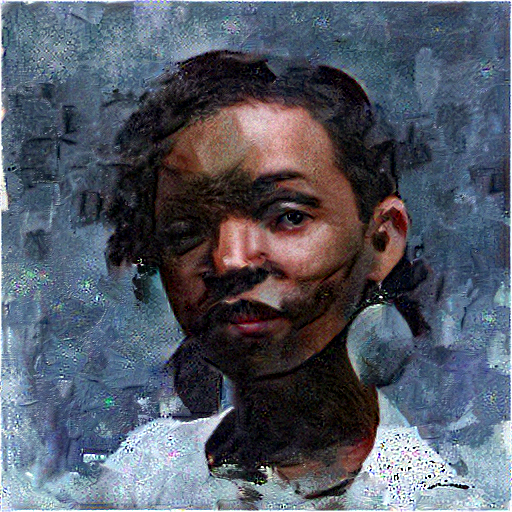
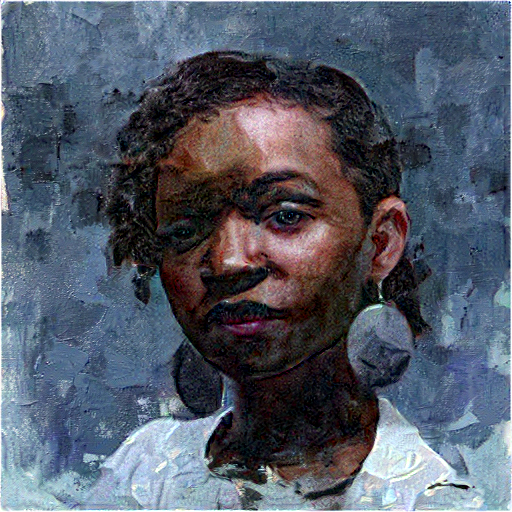
result

diff --git a/transfer.py b/transfer.py
@@ -26,7 +26,7 @@ add_arg('--content',        default=None, type=str,         help='Content image 
 add_arg('--content-weight', default=10, type=float,       help='Weight of content relative to style.')
 add_arg('--content-layers', default='block4_conv2', type=str,        help='The layer with which to match content.')
 add_arg('--style',          default=None, type=str,         help='Style image path to extract patches.')
-add_arg('--style-weight',   default=15, type=float,       help='Weight of style relative to content.')
+add_arg('--style-weight',   default=30, type=float,       help='Weight of style relative to content.')
 add_arg('--style-layers',   default='block2_conv2,block3_conv2,block4_conv2', type=str,    help='The layers to match style patches.')
 add_arg('--semantic-ext',   default='_sem.png', type=str,   help='File extension for the semantic maps.')
 add_arg('--semantic-weight', default=10, type=float,      help='Global weight of semantics vs. features.')
@@ -144,9 +144,10 @@ class CSFlow:
         self.b = b
         self.sigma = sigma #sigma 是变量h
 
-    def __calculate_CS(self, scaled_distances, axis_for_normalization = 3):
+    def __calculate_CS(self, scaled_distances,temp = None, axis_for_normalization = 3):
         cs_weights_before_normalization = tf.exp((self.b - scaled_distances) / self.sigma, name='weights_before_normalization') #权重
-        return CSFlow.sum_normalize(cs_weights_before_normalization, axis_for_normalization)#CXij 集合
+
+        return CSFlow.sum_normalize(cs_weights_before_normalization, temp,axis_for_normalization)#CXij 集合
 
     # def reversed_direction_CS(self):
     #     cs_flow_opposite = CSFlow(self.sigma, self.b)
@@ -159,17 +160,42 @@ class CSFlow:
 
     #-- 计算输入图和目标图特征的相关性，计算了CXij的集合
     @staticmethod
-    def create_using_dotP(I_features, T_features,T_map_features,I_map_features, sigma = float(1.0), b = float(1.0)):
+    def create_using_dotP(I_features, T_features,isStyle ,sigma = float(1.0), b = float(1.0)):
         cs_flow = CSFlow(sigma, b)
         with tf.name_scope('CS'):
             # prepare feature before calculating cosine distance
             T_features, I_features = cs_flow.center_by_T(T_features, I_features)
+
             with tf.name_scope('TFeatures'):
-                T_features = CSFlow.l2_normalize_channelwise(T_features)
+                T_features = CSFlow.l2_normalize_channelwise(T_features,isStyle)
                 
             with tf.name_scope('IFeatures'):
-                I_features = CSFlow.l2_normalize_channelwise(I_features)
+                I_features = CSFlow.l2_normalize_channelwise(I_features,isStyle)
                 
+                if args.semantic_weight > 0 and isStyle:
+                    N, H, W, C = T_features.shape.as_list()
+                    T_map_features = T_features
+                    T_features = tf.slice(T_features,[0,0,0,0],[N, H, W,C-3])
+                    I_map_features = I_features
+                    I_features = tf.slice(I_features,[0,0,0,0],[N, H, W,C-3])
+
+                    sem_cosine_dist_l = []
+                    N, _, __, ___ = T_map_features.shape.as_list()
+                    for i in range(N):
+                        sem_T_features_i = tf.expand_dims(T_map_features[i, :, :, :], 0)
+                        sem_I_features_i = tf.expand_dims(I_map_features[i, :, :, :], 0)
+
+                        #--------------------------------------------------------------------------------
+                        sem_patches_HWCN_i = cs_flow.patch_decomposition(sem_T_features_i)
+
+                        sem_cosine_dist_i = tf.nn.conv2d(sem_I_features_i, sem_patches_HWCN_i, strides=[1, 1, 1, 1],
+                                                            padding='VALID', name='sem_cosine_dist')
+                        sem_cosine_dist_l.append(sem_cosine_dist_i)
+                    sem_cosine_dist = tf.concat(sem_cosine_dist_l, axis = 0)
+
+
+
+
                 cosine_dist_l = []
                 N, _, __, ___ = T_features.shape.as_list()
                 for i in range(N):
@@ -184,58 +210,32 @@ class CSFlow:
                     cosine_dist_l.append(cosine_dist_i)
                 cs_flow.cosine_dist = tf.concat(cosine_dist_l, axis = 0)
                 # tf.print("cosine_dist shape:",tf.shape(cosine_dist))
+
+                temp = None
+                if args.semantic_weight > 0 and isStyle:
+                    #temp 是语义图的余弦相似度矩阵
+                    temp = sem_cosine_dist - cs_flow.cosine_dist
+                    #temp 二值化 ------------
+                    temp = temp.numpy()
+                    temp = ( temp > 0.95 ).astype(np.int_)
+                    temp = tf.cast(temp,dtype = tf.float32)
+
+                    # tf.print("temp one zero:",tf.reduce_sum(temp,3))
+                    #-----------------------
+                    #将语义图标签不同的元素的余弦相似度设置为-1，变为最不相关
+                    cs_flow.cosine_dist = tf.math.multiply((cs_flow.cosine_dist + 1 ),temp) - 1
+
+
                 cosine_dist_zero_to_one = -(cs_flow.cosine_dist - 1 ) / 2 
 
                 cs_flow.raw_distances = cosine_dist_zero_to_one
 
                 relative_dist = cs_flow.calc_relative_distances(cs_flow.raw_distances)
-                cs_flow.cs_NHWC = cs_flow.__calculate_CS(relative_dist)
-
-                if T_map_features is not None and I_map_features is not None:
-                    T_map_features = CSFlow.l2_normalize_channelwise(T_map_features,3)
-                    I_map_features = CSFlow.l2_normalize_channelwise(I_map_features,3)
-
-
-
-                    # tf.print(" befor T_map_features",T_map_features)
-                    T_map_features = tf.math.multiply(T_map_features,args.semantic_weight)
-                    I_map_features = tf.math.multiply(I_map_features,args.semantic_weight)
-                    # tf.print(" after T_map_features",T_map_features)
-                    T_map_features = tf.cast(T_map_features, dtype=tf.float32)
-                    I_map_features = tf.cast(I_map_features, dtype=tf.float32)
-                    T_features = tf.concat([T_features,T_map_features],3)
-                    I_features = tf.concat([I_features,I_map_features],3)
-
-                    sem_cosine_dist_l = []
-                    N, _, __, ___ = T_features.shape.as_list()
-                    for i in range(N):
-                        sem_T_features_i = tf.expand_dims(T_features[i, :, :, :], 0)
-                        sem_I_features_i = tf.expand_dims(I_features[i, :, :, :], 0)
-
-                        #--------------------------------------------------------------------------------
-                        sem_patches_HWCN_i = cs_flow.patch_decomposition(sem_T_features_i)
-
-                        sem_cosine_dist_i = tf.nn.conv2d(sem_I_features_i, sem_patches_HWCN_i, strides=[1, 1, 1, 1],
-                                                            padding='VALID', name='cosine_dist')
-                        sem_cosine_dist_l.append(sem_cosine_dist_i)
-                    sem_cosine_dist = tf.concat(sem_cosine_dist_l, axis = 0)
-                    # tf.print("sem_cosine_dist shape:",tf.shape(sem_cosine_dist))
-                    # cosine_dist = tf.expand_dims(cosine_dist, 4)
-                    # sem_cosine_dist = tf.expand_dims(sem_cosine_dist, 4)
-
-                    # cs_flow.cosine_dist = tf.concat([sem_cosine_dist,cosine_dist],axis = 4)
-                    cs_flow.sem_cosine_dist = sem_cosine_dist
-
-                    sem_cosine_dist_zero_to_one = -(cs_flow.sem_cosine_dist - 1 - args.semantic_weight ** 2) / ( 2 * (args.semantic_weight + 1) )
-                    cs_flow.sem_raw_distances = sem_cosine_dist_zero_to_one
-                    sem_relative_dist = cs_flow.calc_relative_distances(cs_flow.sem_raw_distances)
-                    cs_flow.sem_cs_NHWC = cs_flow.__calculate_CS(sem_relative_dist)
-                    # tf.print("cosine_dist shape:",tf.shape(cs_flow.cosine_dist))
-
-
-                    # cs_flow.cosine_dist = tf.concat(cosine_dist_l, axis = 0)
-                    
+                cs_flow.cs_NHWC = cs_flow.__calculate_CS(relative_dist,temp)
                 return cs_flow
+
+
+
 
     def calc_relative_distances(self,raw_distances, axis=3):
         epsilon = 1e-5
@@ -254,8 +254,15 @@ class CSFlow:
 
 
     @staticmethod
-    def sum_normalize(cs, axis=3): 
+    def sum_normalize(cs, temp = None,axis=3): 
+        if temp is not None :
+            n,h,w,c = temp.shape.as_list()
+            weight_map = tf.compat.v1.get_variable("weight_map",shape=([n,h,w,c ]),dtype=tf.float32,initializer=tf.random_normal_initializer(mean=0.0001,stddev=0)) 
+            temp += weight_map
+            # tf.print("weight_map:",weight_map)
+            cs = tf.math.multiply(cs,temp)
         reduce_sum = tf.math.reduce_sum(cs, axis, keepdims=True, name='sum')
+        # tf.print("reduce_sum:",reduce_sum)
         return tf.divide(cs, reduce_sum, name='sumNormalized') #计算CXij
 
     def center_by_T(self, T_features, I_features):
@@ -282,11 +289,27 @@ class CSFlow:
         return self.T_features_centered, self.I_features_centered
     @staticmethod
 
-    def l2_normalize_channelwise(features,num = 1.0):
-        norms = tf.norm(features, ord='euclidean', axis=3, name='norm')
+    def l2_normalize_channelwise(features,mapBool = False):
+
+        N,H,W,C = features.shape.as_list()
+        if mapBool:
+            
+            mapT  = tf.slice(features,[0,0,0,C-3],[N,H,W,3])
+            features = tf.slice(features,[0,0,0,0],[N,H,W,C-3])
+            # tf.print("features:",tf.shape(features))
+            map_norms = tf.norm(mapT, ord='euclidean', axis=3, name='map_norm')
+            map_norms_expanded = tf.expand_dims(map_norms, 3)
+            map_fea = tf.math.divide_no_nan(mapT, map_norms_expanded, name='map_normalized')
+
+            norms = tf.norm(features, ord='euclidean', axis=3, name='norm')
         # expanding the norms tensor to support broadcast division
-        norms_expanded = tf.expand_dims(norms, 3)
-        features = tf.math.divide_no_nan(features, norms_expanded * num, name='normalized')
+            norms_expanded = tf.expand_dims(norms, 3)
+            features = tf.math.divide_no_nan(features, norms_expanded, name='normalized')
+            features = tf.concat([features,map_fea],3)
+        else:
+            norms = tf.norm(features, ord='euclidean', axis=3, name='norm')
+            norms_expanded = tf.expand_dims(norms, 3)
+            features = tf.math.divide_no_nan(features, norms_expanded, name='normalized')
         return features
 
     def patch_decomposition(self, T_features):
@@ -316,40 +339,16 @@ class CSFlow:
 #--------------------------------------------------
 
 
-def CX_loss(T_features, I_features,T_map_features,I_map_features, nnsigma=float(1.0)):
+def CX_loss(T_features, I_features,isStyle, nnsigma=float(1.0)):
     T_features = tf.convert_to_tensor(T_features, dtype=tf.float32)
     I_features = tf.convert_to_tensor(I_features, dtype=tf.float32)
 
     with tf.name_scope('CX'):
-        cs_flow = CSFlow.create_using_dotP(I_features, T_features,T_map_features,I_map_features, nnsigma, float(1.0))
+        cs_flow = CSFlow.create_using_dotP(I_features, T_features,isStyle, nnsigma, float(1.0))
         # sum_normalize:
         height_width_axis = [1, 2]
-        # To:
-        # x=[[[[[1.0,6.0],[2.0,4.0]],[[3.0,4.0],[7.0,2.0]]],[[[1.0,3.0],[4.0,6.0]],[[8.0,5.0],[1.0,10.0]]]]]
-        # # x = [[1,2],[3,4],[0,5],[2,6]]
-        # tf.print("x shape:",tf.shape(x))
-        # tf.print("cs_flow:",cs_flow.cs_NHWC)
-        if T_map_features is not None and I_map_features is not None: 
-            cs_NHWC = tf.expand_dims(cs_flow.cs_NHWC,axis = 4)
-            sem_cs_NHWC = tf.expand_dims(cs_flow.sem_cs_NHWC,axis = 4)
-            cs = tf.concat([sem_cs_NHWC,cs_NHWC],axis = 4)
 
-            # dataMax = tf.argmax(cs,axis=)
-
-            _,h,w,n,_ = cs.shape.as_list()
-            cxij_matrix = cs.numpy() #将tensor 转换为 numpy对象，否则运行起来会非常慢，因为在下面这行代码的循环中，将不停的把tensor对象放入计算图
-            # tf.print("cs:",cs)
-            # k_max_NC = [ cxij_list[tf.argmax(cxij_list[i,:,:],axis = 0)[0],1] for i in range(h*w)]
-            k_max_NC = []
-            for i in range(h):
-                for j in range(w):
-                    CXij_list = cxij_matrix[0,i,j,:,:]
-                    max = tf.argmax(CXij_list,axis = 0)[0]
-                    k_max_NC.append(CXij_list[max,1])
-
-            k_max_NC = [k_max_NC]
-        else:
-            k_max_NC = tf.math.reduce_max(cs_flow.cs_NHWC, axis=height_width_axis) #找到CXij集合中最大的CXij
+        k_max_NC = tf.math.reduce_max(cs_flow.cs_NHWC, axis=height_width_axis) #找到CXij集合中最大的CXij
 
 
 
@@ -358,7 +357,7 @@ def CX_loss(T_features, I_features,T_map_features,I_map_features, nnsigma=float(
         CX_as_loss = 1 - CS
         CX_loss = -tf.math.log(1 - CX_as_loss)
         CX_loss = tf.math.reduce_mean(CX_loss) #返回损失值，一个float32
-        # print("CXLOSS：{}".format(float(CX_loss)))
+        tf.print("CXLOSS：",float(CX_loss))
         return CX_loss
 
 #--------------------------------------------------
@@ -418,22 +417,25 @@ def crop_quarters(feature_tensor):
     return feature_tensor
 
 
-def CX_loss_helper(T_features,I_features,nnsigma=float(0.5),T_map_features=None,I_map_features=None):
+def CX_loss_helper(T_features,I_features,isStyle = True,nnsigma=float(0.5),T_map_features=None,I_map_features=None):
     # if CX_config.crop_quarters is True:
     #     T_features = crop_quarters(T_features)
     #     I_features = crop_quarters(I_features)
     # if T_map_features is not None and I_map_features is not None :
     #     T_features = tf.concat([T_features,T_map_features],3)
     #     I_features = tf.concat([I_features,I_map_features],3)
-
+    if T_map_features is not None and I_map_features is not None:
+        T_map_features = tf.cast(T_map_features, dtype=tf.float32)
+        I_map_features = tf.cast(I_map_features, dtype=tf.float32)
+        T_features = tf.concat([T_features,T_map_features],3)
+        I_features = tf.concat([I_features,I_map_features],3)
 
     N, fH, fW, fC = T_features.shape.as_list()
     if fH * fW <= 65 ** 2:
         print(' #### Skipping pooling for CX....')
     else:
+        
         T_features, I_features = random_pooling(T_features, I_features, output_1d_size=65)
-        if T_map_features is not None and I_map_features is not None:
-            T_map_features, I_map_features = random_pooling(T_map_features, I_map_features, output_1d_size=65)
 
 
     # if T_map_features is not None and I_map_features is not None:
@@ -453,7 +455,7 @@ def CX_loss_helper(T_features,I_features,nnsigma=float(0.5),T_map_features=None,
     # tf.print("after,tshape:",tf.shape(T_features))
     # tf.print("after,Ishape:",tf.shape(I_features))
 
-    loss = CX_loss(T_features, I_features,T_map_features,I_map_features,nnsigma)
+    loss = CX_loss(T_features, I_features,isStyle,nnsigma)
     # tf.print("LOSS:",loss)
     return loss
 
@@ -512,7 +514,7 @@ def style_content_loss(outputs,style_targets,style_map_targets,content_targets,c
 
     # tf.print("num_style_layers:",num_style_layers)
     #有待改进，重复
-    style_loss = tf.add_n([CX_loss_helper(style_targets[name],style_outputs[name],float(0.2),style_map_targets[name],current_map_targets[name]) for name in style_outputs.keys()])
+    style_loss = tf.add_n([CX_loss_helper(style_targets[name],style_outputs[name],True , float(0.2),style_map_targets[name],current_map_targets[name]) for name in style_outputs.keys()])
     style_loss *= args.style_weight / num_style_layers
 
     tf.print("style_loss:",style_loss)
@@ -522,7 +524,7 @@ def style_content_loss(outputs,style_targets,style_map_targets,content_targets,c
 
     # print("content_outputs:{}".format(content_outputs.keys()))
     # print("content_targets:{}".format(content_targets.keys()))
-    content_loss = tf.add_n([CX_loss_helper(content_targets[name],content_outputs[name],float(0.1)) for name in content_outputs.keys()])
+    content_loss = tf.add_n([CX_loss_helper(content_targets[name],content_outputs[name],False,float(0.1)) for name in content_outputs.keys()])
     content_loss *= args.content_weight / num_content_layers
     tf.print("content_loss:",content_loss)
 
